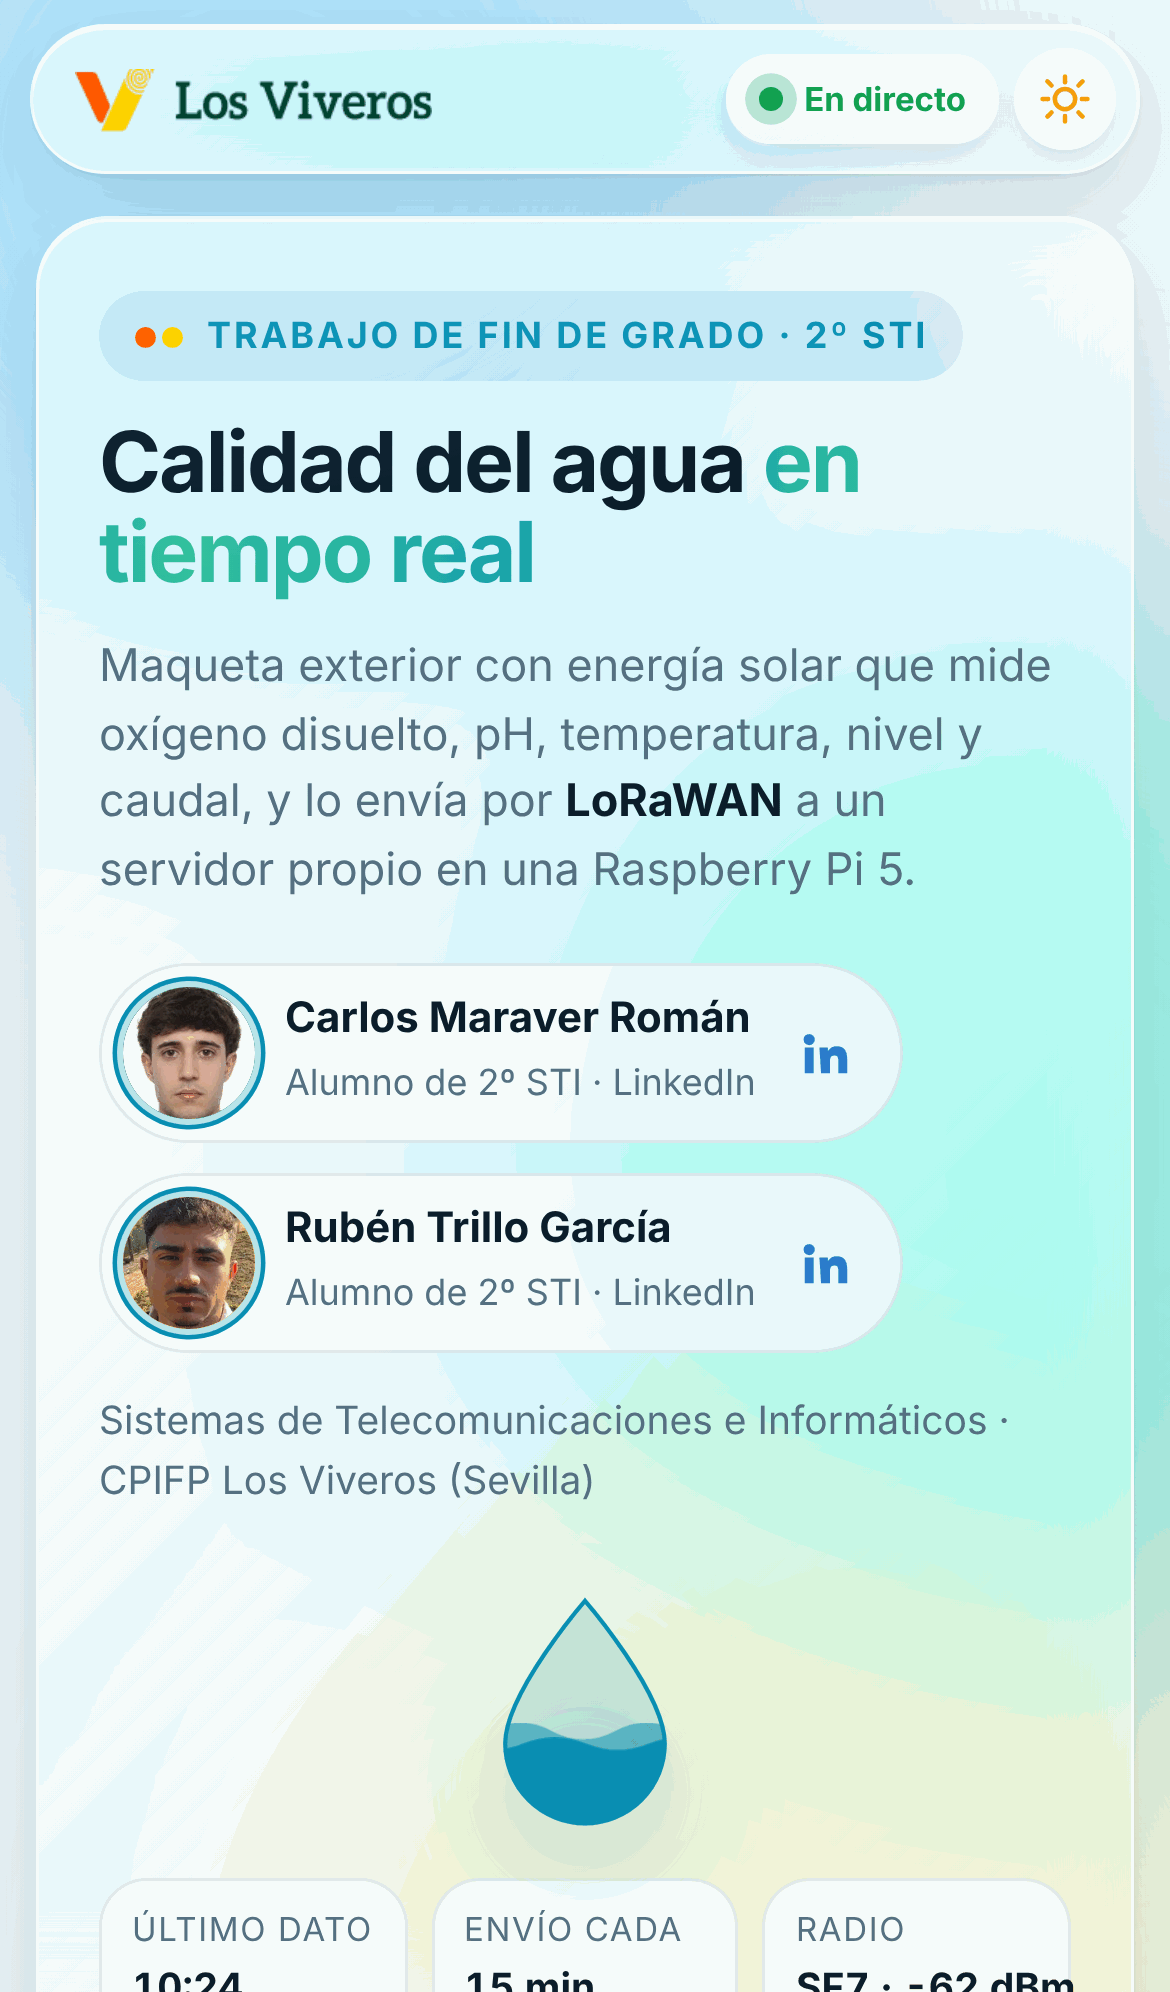
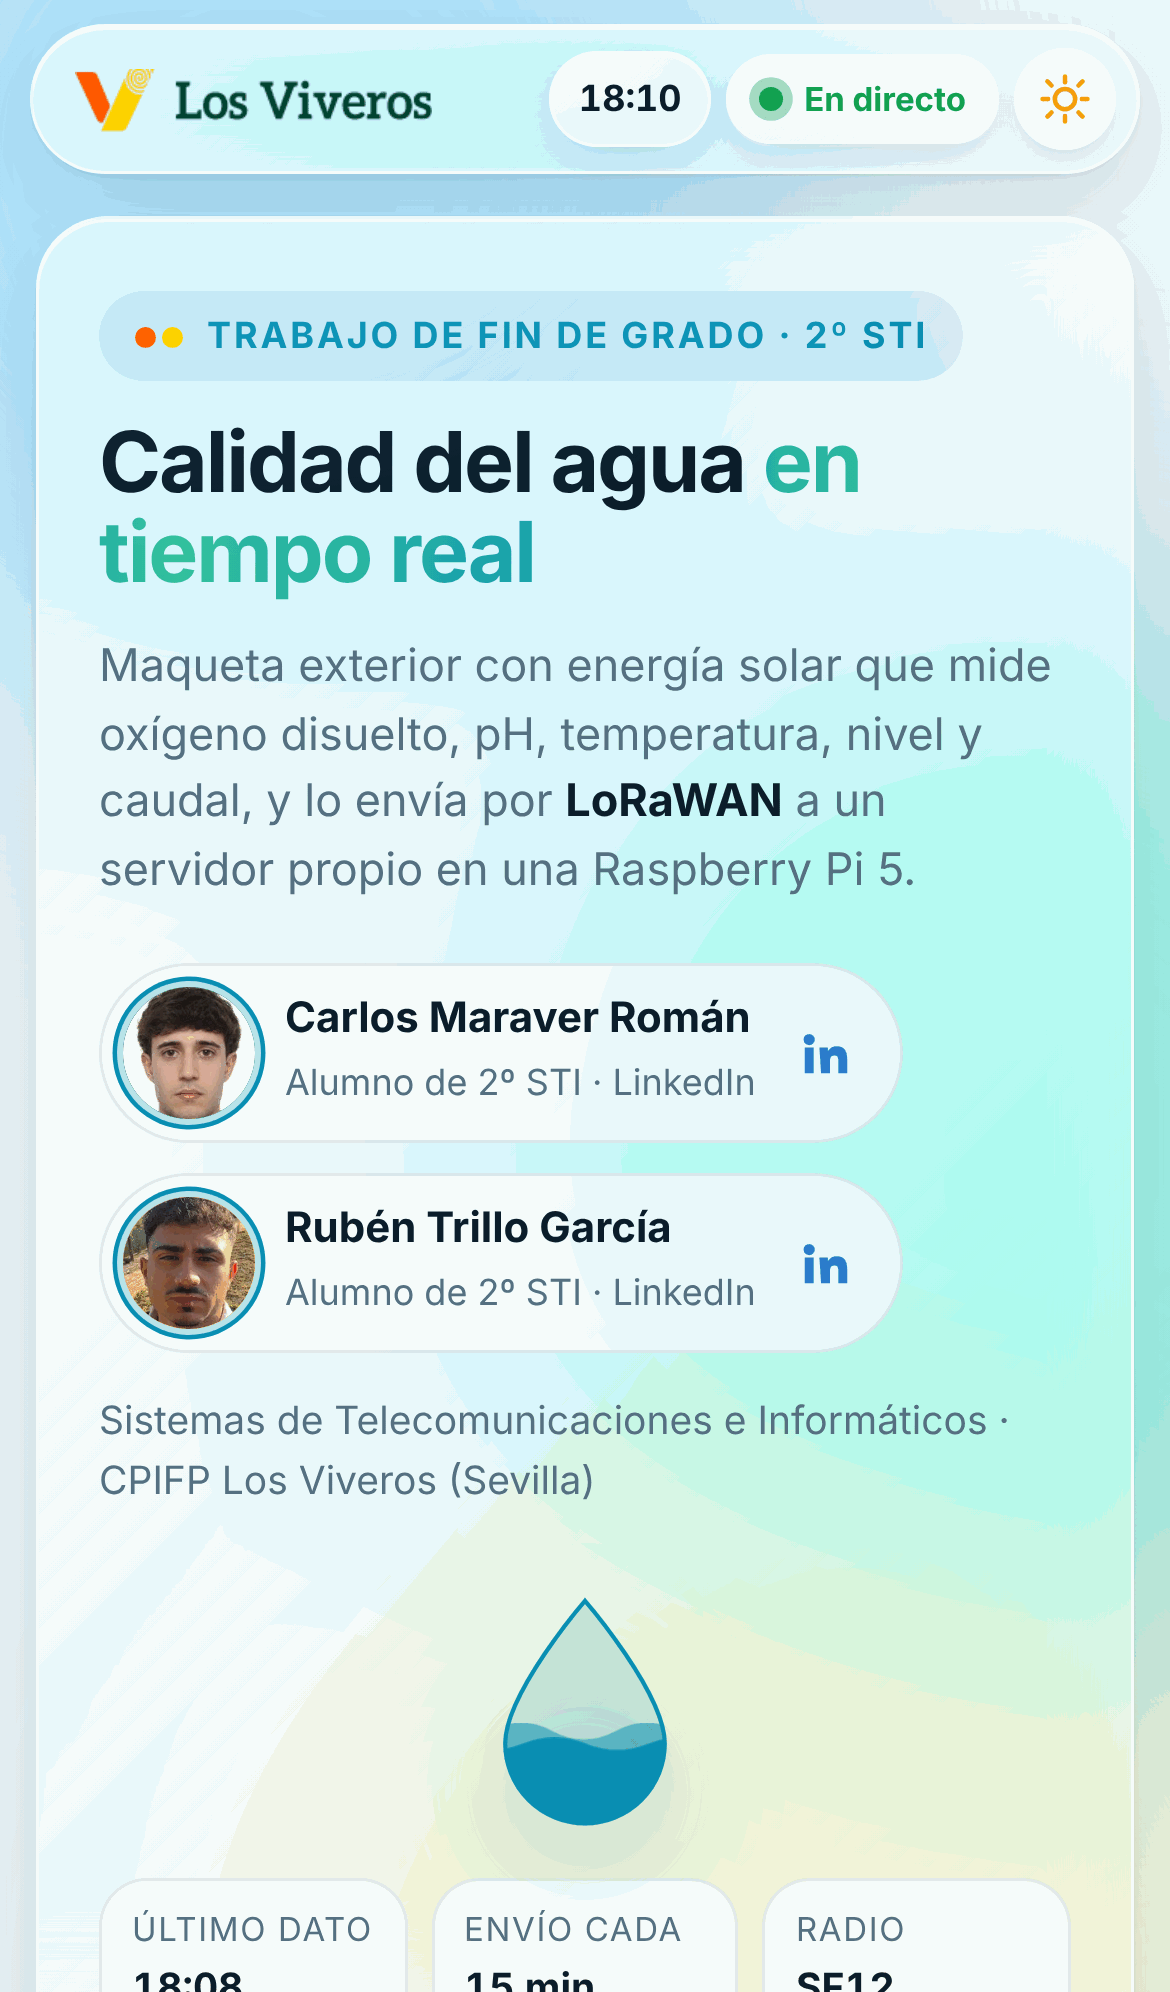
Web: hora de Madrid en la cabecera, radio que cabe en el móvil, tarjetas sin pico y pie más corto
- Reloj con la hora de Madrid y su desfase (UTC+1/UTC+2) junto a "En directo";
  el histórico indica también que las horas son de Madrid.
- Ficha de radio en dos líneas (SF y RSSI) y textos que no se salen en móviles estrechos.
- Halo de las tarjetas con un degradado en lugar de un círculo difuminado
  (en iOS se salía de la esquina redondeada).
- Pie solo con el logo, el TFG y los autores; fuera el letrero de colores.

Claude-Session: https://claude.ai/code/session_01D9udZhUNXsRqy8rDTUC1oa

diff --git a/raspberry/web/static/estilo.css b/raspberry/web/static/estilo.css
@@ -127,6 +127,7 @@ b, strong { font-weight: 650; }
   box-shadow: 0 0 0 0 var(--bien); animation: pulso 2s infinite;
 }
 .pastilla.caido { color: var(--mal); }
+.pastilla.caido::before { content: ""; width: 8px; height: 8px; border-radius: 50%; background: var(--mal); }
 @keyframes pulso {
   0% { box-shadow: 0 0 0 0 color-mix(in srgb, var(--bien) 60%, transparent); }
   80%, 100% { box-shadow: 0 0 0 8px transparent; }
@@ -182,8 +183,9 @@ main { max-width: 1280px; margin: 0 auto; padding: 18px 16px 8px; }
 .fichas { display: grid; grid-template-columns: repeat(3, 1fr); gap: 8px; margin: 0; width: 100%; }
 .fichas div { background: var(--panel); border: 1px solid var(--borde); border-radius: 16px; padding: 10px 12px; min-width: 0; }
 .fichas dt { font-size: 11px; color: var(--tenue); text-transform: uppercase; letter-spacing: .05em; }
-.fichas dd { margin: 2px 0 0; font-weight: 650; font-size: 15px; font-variant-numeric: tabular-nums; white-space: nowrap; }
-.fichas dd small { display: block; font-size: 12px; font-weight: 500; color: var(--tenue); }
+.fichas dd { margin: 2px 0 0; font-weight: 650; font-size: 15px; font-variant-numeric: tabular-nums; white-space: nowrap;
+  overflow: hidden; text-overflow: ellipsis; }
+.fichas dd small { display: block; font-size: 12px; font-weight: 500; color: var(--tenue); white-space: normal; }
 
 /* ---------- Bloques ---------- */
 .bloque { margin-bottom: 30px; }
@@ -208,10 +210,9 @@ main { max-width: 1280px; margin: 0 auto; padding: 18px 16px 8px; }
 .tarjeta.bien { --estado: var(--bien); }
 .tarjeta.aviso { --estado: var(--aviso); }
 .tarjeta.mal { --estado: var(--mal); }
-.tarjeta::after { /* halo del color de la variable */
-  content: ""; position: absolute; width: 140px; height: 140px; right: -50px; top: -60px; border-radius: 50%;
-  background: var(--color); opacity: .14; filter: blur(10px); pointer-events: none;
-}
+/* Halo del color de la variable en la esquina: degradado de fondo (sin pseudo-elemento ni blur,
+   que en Safari/iOS se salía del borde redondeado y hacía un pico) */
+.tarjeta { background-image: radial-gradient(circle at 100% 0, color-mix(in srgb, var(--color) 16%, transparent), transparent 55%); }
 .tarjeta.nuevo { animation: destello 1.4s var(--curva); }
 @keyframes destello {
   0% { box-shadow: 0 0 0 0 color-mix(in srgb, var(--color) 55%, transparent), var(--sombra); }
@@ -386,3 +387,22 @@ a.autor:hover .in { opacity: 1; }
 .avatar img { position: absolute; inset: 0; width: 100%; height: 100%; object-fit: cover; border-radius: 50%;
   box-shadow: inset 0 0 0 2px rgba(255, 255, 255, .7); }
 .avatar:has(img) { box-shadow: 0 0 0 2px var(--panel), 0 0 0 3.5px var(--acento); }
+
+/* ---------- Reloj de la cabecera (hora de Madrid) ---------- */
+.reloj {
+  display: inline-flex; align-items: center; gap: 6px; padding: 6px 12px; border-radius: 999px;
+  font-size: 13px; font-variant-numeric: tabular-nums; white-space: nowrap;
+}
+.reloj svg { width: 15px; height: 15px; fill: none; stroke: var(--acento); stroke-width: 2; stroke-linecap: round; }
+.reloj b { font-weight: 700; }
+.reloj small { color: var(--tenue); font-size: 11px; }
+@media (max-width: 560px) {
+  .reloj { padding: 6px 9px; font-size: 12px; gap: 4px; }
+  .reloj svg, .reloj small { display: none; }
+}
+/* Móviles estrechos (iPhone SE): el estado se queda solo con el punto de color */
+@media (max-width: 380px) {
+  .marca img { height: 17px; }
+  .pastilla.vivo, .pastilla.caido { font-size: 0; gap: 0; padding: 10px; }
+  .boton-tema { width: 32px; height: 32px; }
+}

diff --git a/raspberry/web/static/app.js b/raspberry/web/static/app.js
@@ -45,7 +45,7 @@ const fmtNum = (v, dec) => v == null ? "—" : Number(v).toLocaleString("es-ES",
 
 function hace(t) {
   const min = Math.round((Date.now() - new Date(t)) / 60000);
-  if (min < 1) return "hace menos de 1 min";
+  if (min < 1) return "ahora mismo";
   if (min < 60) return `hace ${min} min`;
   const h = Math.floor(min / 60);
   return h < 48 ? `hace ${h} h ${min % 60} min` : `hace ${Math.floor(h / 24)} días`;
@@ -59,6 +59,20 @@ async function pedir(url) {
 
 const fmtHora = t => new Date(t).toLocaleTimeString("es-ES", { timeZone: ZONA, hour: "2-digit", minute: "2-digit" });
 const sinMovimiento = matchMedia("(prefers-reduced-motion: reduce)").matches;
+
+// Desfase de Madrid respecto a UTC ahora mismo: "UTC+1" en invierno y "UTC+2" en verano
+function zonaMadrid(fecha = new Date()) {
+  const p = new Intl.DateTimeFormat("en-GB", { timeZone: ZONA, timeZoneName: "shortOffset" })
+    .formatToParts(fecha).find(x => x.type === "timeZoneName");
+  return p ? p.value.replace("GMT", "UTC") : "UTC";
+}
+
+// Reloj de la cabecera con la hora de Madrid
+function actualizarReloj() {
+  const ahora = new Date();
+  $("#reloj-hora").textContent = fmtHora(ahora);
+  $("#reloj-zona").textContent = `Madrid ${zonaMadrid(ahora)}`;
+}
 
 // ---------- Tarjetas "Ahora mismo" ----------
 // Las tarjetas se crean una vez y luego solo se cambian sus números (así no se repite la animación de entrada)
@@ -107,7 +121,8 @@ function pintarTarjetas(m, destacar) {
     t.querySelector(".etq-estado").textContent = val == null ? "Sin dato" : (TEXTO_ESTADO[clase] || "Informativo");
   }
   // Datos de radio de la portada
-  $("#radio").textContent = m && m.spreading_factor ? `SF${m.spreading_factor} · ${m.rssi_dbm ?? "?"} dBm` : "EU868";
+  // SF arriba y RSSI debajo: en una sola línea no cabía en el móvil
+  $("#radio").innerHTML = m && m.spreading_factor ? `SF${m.spreading_factor}<small>${m.rssi_dbm ?? "?"} dBm</small>` : "EU868";
   document.querySelector("#t-rssi_dbm .extra").textContent = m ? `fcnt ${m.fcnt ?? "?"}` : "";
 
   const avisos = [];
@@ -129,6 +144,7 @@ function actualizarRecepcion() {
   const min = (Date.now() - new Date(m.tiempo)) / 60000;
   $("#ultima-recepcion").innerHTML = `${fmtHora(m.tiempo)}<small>${hace(m.tiempo)}</small>`;
   $("#ultima-recepcion").title = fmtFecha(m.tiempo);
+  p.title = min > MIN_SIN_DATOS ? "Nodo sin transmitir" : "Llegan datos en directo";
   if (min > MIN_SIN_DATOS) { p.textContent = "Nodo sin transmitir"; p.className = "pastilla cristal-suave caido"; }
   else if (conectadoTiempoReal) { p.textContent = "En directo"; p.className = "pastilla cristal-suave vivo"; }
 }
@@ -217,7 +233,7 @@ async function cargarHistorico() {
     ? "No hay medidas en este intervalo."
     : `${h.medidas_totales.toLocaleString("es-ES")} medidas` + (h.agrupado_cada_s
         ? ` (se muestran medias cada ${Math.round(h.agrupado_cada_s / 60)} min para que la gráfica vaya fluida)` : "")
-      + ". Arrastra o usa la rueda para hacer zoom.";
+      + `. Horas de Madrid (${zonaMadrid()}). Arrastra o usa la rueda para hacer zoom.`;
 }
 
 function anadirPuntoEnVivo(m) {
@@ -307,6 +323,8 @@ function prepararControles() {
   });
   ponerTema(document.documentElement.dataset.tema);
   setInterval(actualizarRecepcion, 30000);
+  actualizarReloj();
+  setInterval(actualizarReloj, 10000);
   moverIndicador();
   document.fonts?.ready.then(moverIndicador);
 }

diff --git a/raspberry/web/static/index.html b/raspberry/web/static/index.html
@@ -34,6 +34,10 @@
         <svg viewBox="0 0 24 24" aria-hidden="true"><path d="M12 2a7 7 0 0 0-7 7c0 5 7 13 7 13s7-8 7-13a7 7 0 0 0-7-7zm0 9.5A2.5 2.5 0 1 1 12 6.5a2.5 2.5 0 0 1 0 5z"/></svg>
         <select id="nodo" aria-label="Nodo"></select>
       </label>
+      <span class="reloj cristal-suave" title="Hora oficial de Madrid (Europe/Madrid)">
+        <svg viewBox="0 0 24 24" aria-hidden="true"><circle cx="12" cy="12" r="9"/><path d="M12 7v5l3 2"/></svg>
+        <b id="reloj-hora">--:--</b><small id="reloj-zona">Madrid</small>
+      </span>
       <span id="estado" class="pastilla cristal-suave">Conectando…</span>
       <button id="tema" class="boton-tema cristal-suave" type="button" aria-label="Cambiar a modo oscuro" title="Cambiar a modo oscuro">
         <svg class="sol" viewBox="0 0 24 24" aria-hidden="true"><circle cx="12" cy="12" r="4.5"/><path d="M12 2v2.5M12 19.5V22M4.2 4.2l1.8 1.8M18 18l1.8 1.8M2 12h2.5M19.5 12H22M4.2 19.8 6 18M18 6l1.8-1.8"/></svg>
@@ -79,7 +83,6 @@
     <section class="bloque">
       <div class="titulo-bloque">
         <h2>Ahora mismo</h2>
-        <span class="tenue">Verde correcto · naranja vigilar · rojo fuera de rango</span>
       </div>
       <div id="tarjetas" class="tarjetas"></div>
       <div id="avisos" class="avisos"></div>
@@ -118,8 +121,6 @@
       <img class="logo-tema-oscuro" src="/static/logo-viveros-claro.png" alt="CPIFP Los Viveros" width="237" height="42" loading="lazy">
       <p><b>TFG de 2º de Sistemas de Telecomunicaciones e Informáticos</b><br>
         <a href="https://www.linkedin.com/in/carlosmaravv" target="_blank" rel="noopener">Carlos Maraver Román</a> y <a href="https://www.linkedin.com/in/ruben-trillo-garcia-755830384" target="_blank" rel="noopener">Rubén Trillo García</a> · CPIFP Los Viveros, Sevilla</p>
-      <p class="tenue">LILYGO ESP32 · LoRaWAN EU868 · MikroTik wAP LR8 · ChirpStack · TimescaleDB · Raspberry Pi 5<br>
-        Horas en hora de Madrid</p>
     </div>
   </footer>
 

diff --git a/raspberry/README.md b/raspberry/README.md
@@ -187,11 +187,13 @@ Borrar después los datos de prueba: `DELETE FROM medidas WHERE dev_eui='0000000
 (Captura con **datos simulados** de 30 días (vista de 1 semana), no son medidas reales. En el móvil: `docs/img/web-movil-datos-simulados.png`; tema oscuro: `docs/img/web-oscuro-datos-simulados.png`.)
 
 Qué tiene la página:
-- **Cabecera** fija con el logo del CPIFP Los Viveros, si llegan datos en directo y el botón de modo claro/oscuro.
+- **Cabecera** fija con el logo del CPIFP Los Viveros, la hora de Madrid con su desfase (UTC+1 en invierno, UTC+2 en verano),
+  si llegan datos en directo y el botón de modo claro/oscuro. Las horas de las gráficas también son de Madrid.
   El selector de nodo solo aparece si hay más de un nodo dado de alta (ahora solo está la maqueta).
 - **Portada** del TFG (2º STI, Carlos Maraver Román y Rubén Trillo García, con su foto y enlace a su LinkedIn;
   fotos en `web/static/foto-carlos.jpg` y `foto-ruben.jpg`, si falta una se ven las iniciales) con la hora del último dato y la radio (SF y RSSI).
-- **Ahora mismo**: una tarjeta por variable con icono, valor animado, barrita y estado (correcto, vigilar o fuera de rango).
+- **Ahora mismo**: una tarjeta por variable con icono, valor animado, barrita y estado con su punto de color
+  (verde correcto, naranja vigilar, rojo fuera de rango).
   Cuando llega un uplink la tarjeta da un destello y el número cuenta hasta el valor nuevo.
 - **Histórico**: rangos de 1 h, 5 h, 24 h, 1 semana y 30 días, más fechas a elegir y descarga en CSV.
   Con pocos puntos (1 h o 5 h, un dato cada 15 min) se dibuja también cada medida.
